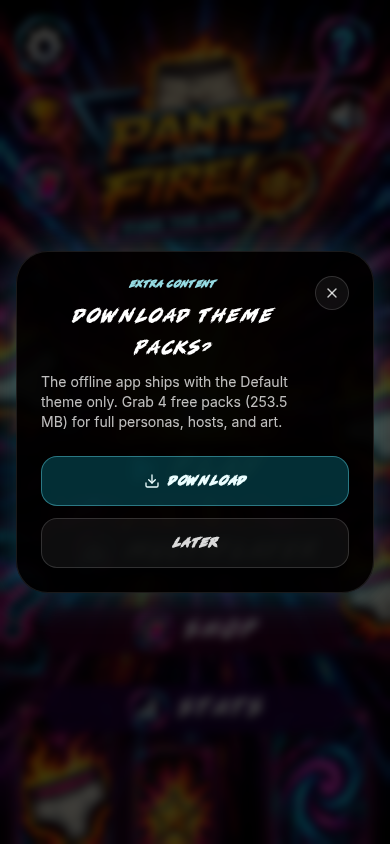
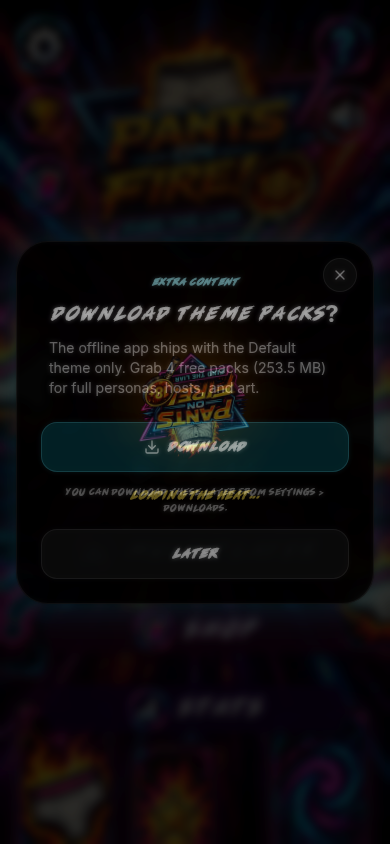
chore: refresh content-pack prompt screenshot at 390x844

diff --git a/tests/e2e/playwright/content-pack-prompt.spec.js b/tests/e2e/playwright/content-pack-prompt.spec.js
@@ -51,6 +51,9 @@ test.describe('content pack download prompt UI', () => {
     const prompt = page.getByTestId('content-pack-prompt');
     await expect(prompt).toContainText(/Download theme packs/i);
     await expect(prompt).toContainText(/MB|KB/);
+    await expect(page.getByTestId('content-pack-prompt-settings-hint')).toContainText(
+      'Settings > Downloads',
+    );
     await expect(page.getByTestId('content-pack-download-btn')).toBeVisible();
     await expect(page.getByTestId('content-pack-later-btn')).toBeVisible();
     await page.getByTestId('content-pack-later-btn').click();
